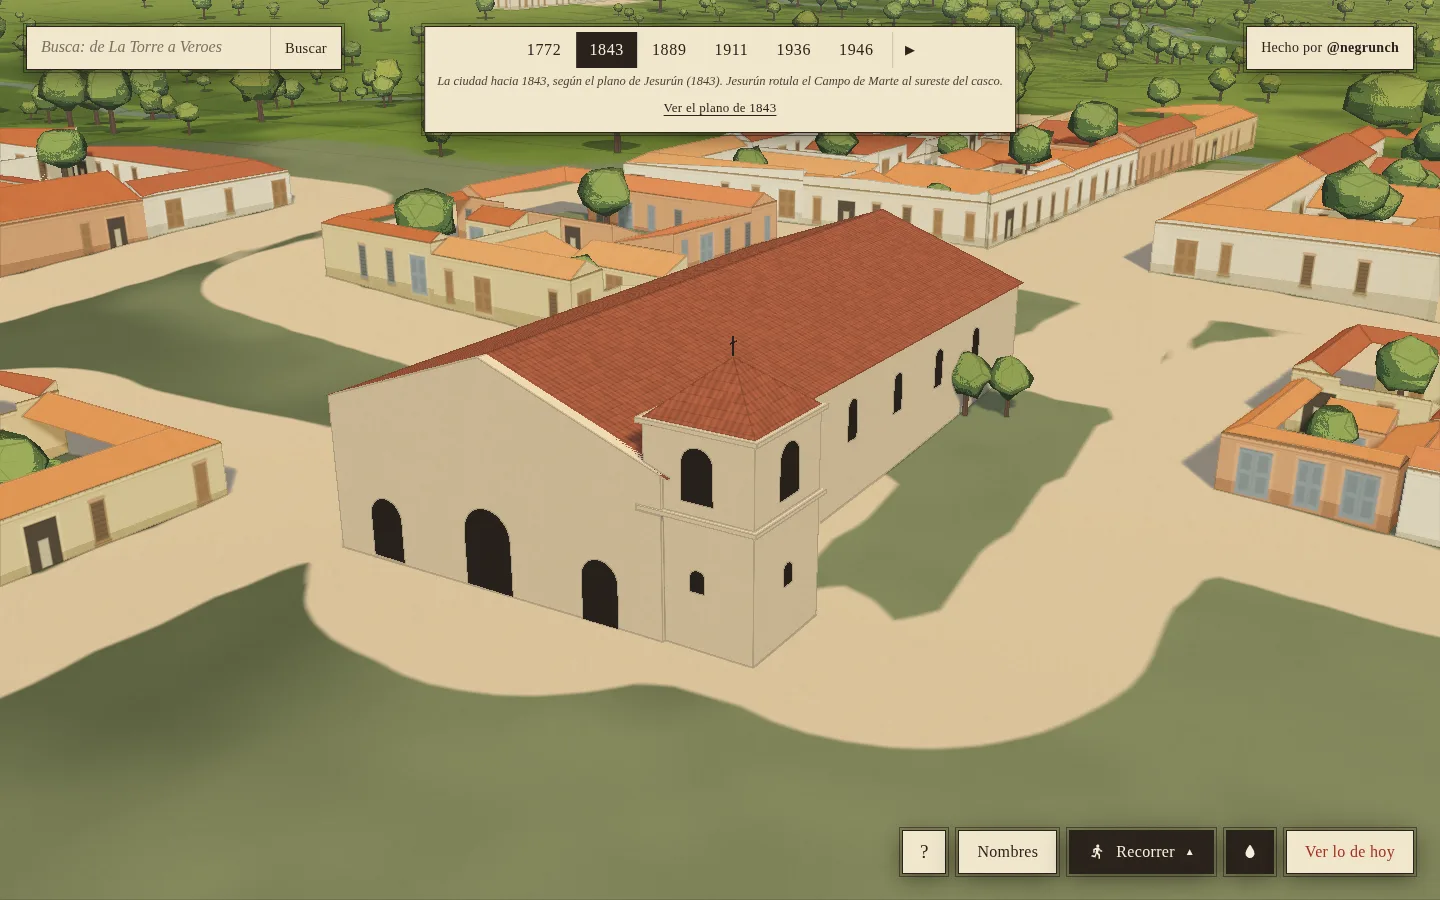
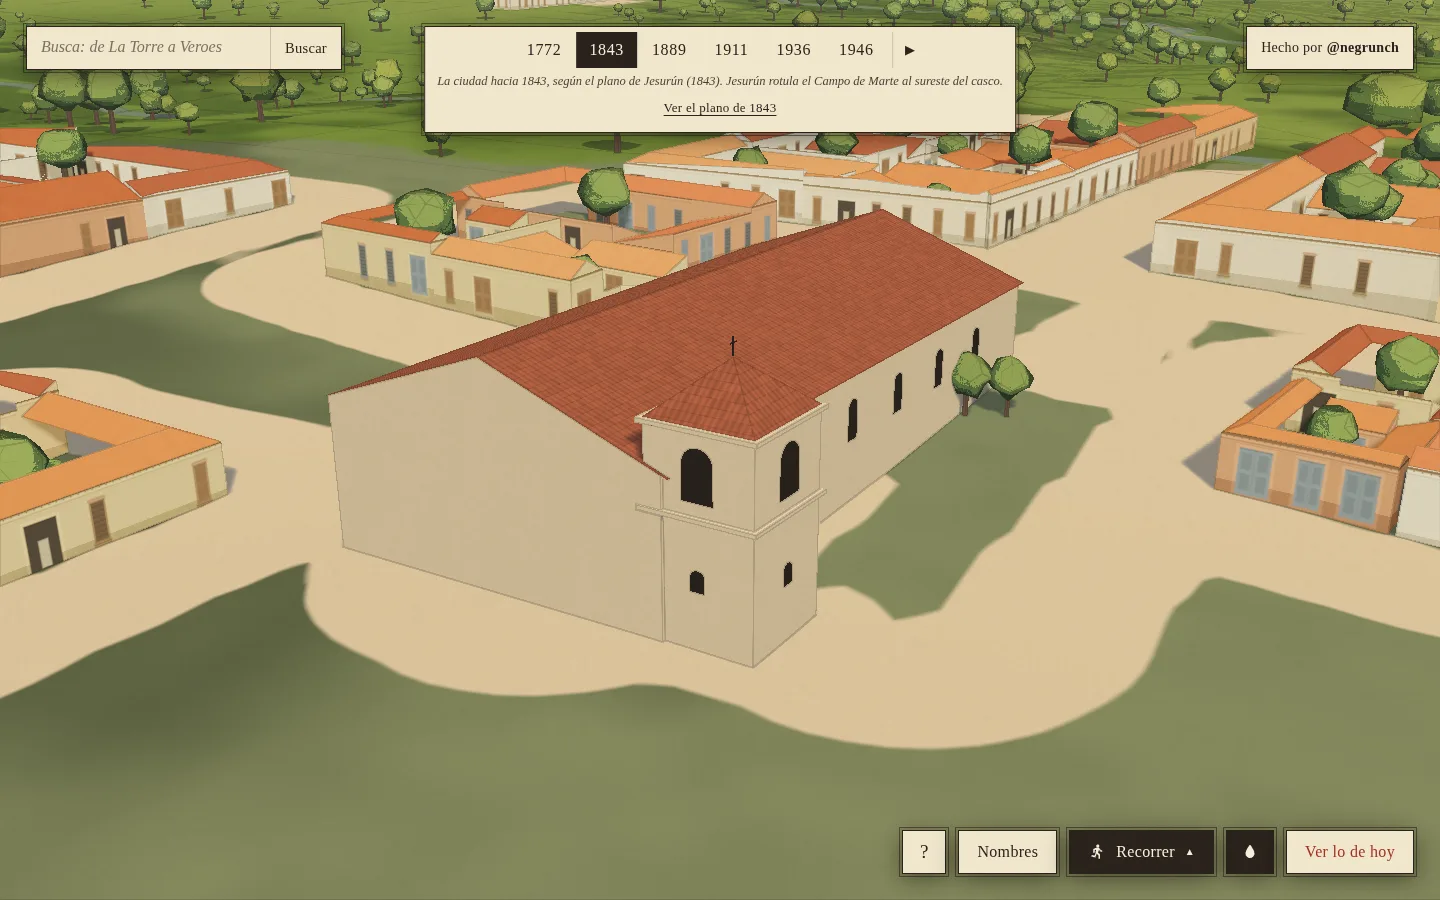
fix: La Candelaria va sin fachada en 1843 y la ficha dice lo que el dibujo interpreta
Corrige la revisión de #314:

- En 1843 se dibujaba la fachada lisa de tres puertas de 1772, pero esa
  fachada cayó en 1812 y la nueva no se empezó hasta 1860. La etapa de 1843
  es ahora una pieza aparte, con el muro de cierre de la nave y sin frente
  ni puertas (fachada «ninguna» de la iglesia paramétrica). El texto de la
  ficha de 1843 lo dice.
- El texto de la ficha de 1911 dice que el templo se muestra terminado por
  interpretación: no se sabe cuándo terminó la obra empezada en 1901.
- El test de las tres puertas no probaba nada en el templo de naves: ahora
  comprueba qué fachada y cuántas puertas tiene cada etapa.

198 triángulos más (2.555); sigue dentro de los topes. Capturas de 1843 nuevas.

Refs #243

Claude-Session: https://claude.ai/code/session_016wLvLzPGE3irYQgPfs9SqY

diff --git a/tests/unit/candelaria.test.js b/tests/unit/candelaria.test.js
@@ -74,6 +74,15 @@ describe('iglesia paramétrica: fachada lisa, tres puertas y fachada más alta q
     expect([...explicita.posiciones]).toEqual([...d.posiciones])
   })
 
+  test('sin frente (fachada «ninguna») no dibuja puertas ni hastial: menos triángulos que la lisa y la misma nave', () => {
+    const lisa = dibujar((p) => iglesia(p, { ...base, fachada: 'lisa' }))
+    const ninguna = dibujar((p) => iglesia(p, { ...base, fachada: 'ninguna' }))
+    expect(ninguna.sano).toBe(true)
+    expect(ninguna.triangulos).toBeLessThan(lisa.triangulos)
+    expect(ninguna.caja.min[0]).toBeGreaterThan(lisa.caja.min[0]) // nada delante del muro de la nave
+    expect(ninguna.caja.max[0]).toBeCloseTo(lisa.caja.max[0], 5)
+  })
+
   test('rechaza un número de puertas que no sea 1 o 3', () => {
     expect(() => dibujar((p) => iglesia(p, { ...base, puertas: 2 }))).toThrow(/puertas/)
   })
@@ -119,7 +128,9 @@ describe('La Candelaria (#243)', () => {
     const cabecera = coords.aMundo(...h.planta[0][1])
     expect(cabecera.x).toBeGreaterThan(origen.x + 40)
     expect(Math.abs(cabecera.z - origen.z)).toBeLessThan(20)
-    for (const parte of h.partes.filter((p) => p.tipo !== 'torre')) expect(parte.puertas ?? 3).toBe(3)
+    // las tres puertas van donde hay fuente: 1772 (Martí) y 1889 (puertas de 1880); el templo de naves trae tres siempre
+    const iglesias = h.partes.filter((p) => p.tipo === 'iglesia')
+    expect(iglesias.map((p) => [p.nace, p.fachada, p.puertas ?? 1])).toEqual([[1, 'lisa', 3], [2, 'ninguna', 1], [3, 'clasica', 3]])
   })
 
   test('la torre queda al sur de la fachada (lado de la Epístola), fuera del ancho de las naves', () => {
@@ -148,11 +159,11 @@ describe('La Candelaria (#243)', () => {
     expect(alto(4)).toBeGreaterThan(alto(3) + 2)
   })
 
-  test('cada etapa tiene su cuerpo: envolvente lisa (1772 y 1843), fachada alta de 1872 (1889) y naves levantadas (desde 1911)', () => {
+  test('cada etapa tiene su cuerpo: fachada lisa (1772), sin frente (1843: cayó en 1812), fachada alta de 1872 (1889) y naves levantadas (desde 1911)', () => {
     expect(h.partes.filter((p) => p.tipo !== 'torre').map((p) => [p.tipo, p.fachada ?? null, p.nace, p.muere])).toEqual([
-      ['iglesia', 'lisa', 1, 3], ['iglesia', 'clasica', 3, 4], ['temploDeNaves', null, 4, 0],
+      ['iglesia', 'lisa', 1, 2], ['iglesia', 'ninguna', 2, 3], ['iglesia', 'clasica', 3, 4], ['temploDeNaves', null, 4, 0],
     ])
-    const [, de1889, de1911] = h.partes.filter((p) => p.tipo !== 'torre')
+    const [, , de1889, de1911] = h.partes.filter((p) => p.tipo !== 'torre')
     expect(de1889.altoFachada).toBeGreaterThan(de1889.alto + de1889.altoTecho) // «levantando los techos para que… concuerden con la fachada»
     expect(de1911.altoCentral).toBeGreaterThan(de1911.altoLateral)
     // la nave sube en 1911: los techos se levantaron después del terremoto de 1900
@@ -203,5 +214,9 @@ describe('La Candelaria (#243)', () => {
     expect(f.textos[3][1]).toMatch(/1900/)
     expect(f.dudas).toMatch(/altura/i)
     expect(f.dudas).toMatch(/1843/)
+    // lo que el dibujo interpreta va dicho en el texto de su época, no solo en las dudas
+    expect(f.textos[1][1]).toMatch(/sin fachada/)
+    expect(f.textos[3][1]).toMatch(/interpretación/)
+    expect(f.textos[3][1]).toMatch(/no se sabe cuándo terminó/)
   })
 })

diff --git a/src/hitos/datos/candelaria.js b/src/hitos/datos/candelaria.js
@@ -32,9 +32,12 @@ export const candelaria = Object.freeze({
   id: 'candelaria', nombre: 'Iglesia de La Candelaria', ...marco, nace: 1, muere: 0,
   planta, suprime: recinto, sinArboles: recinto, solarCompleto: true,
   partes: [
-    // 1772 y 1843: tres naves bajo un tejado, fachada de ladrillo con tres puertas al oeste (Martí). De su
-    // adorno no se sabe nada, y en 1812 se cayó: va lisa.
-    { tipo: 'iglesia', ...NAVES, alto: ALTO, altoTecho: ALTO_TECHO, fachada: 'lisa', puertas: 3, nace: 1, muere: 3 },
+    // 1772: tres naves bajo un tejado, fachada de ladrillo con tres puertas al oeste (Martí). De su adorno no
+    // se sabe nada: va lisa.
+    { tipo: 'iglesia', ...NAVES, alto: ALTO, altoTecho: ALTO_TECHO, fachada: 'lisa', puertas: 3, nace: 1, muere: 2 },
+    // 1843: la fachada cayó en 1812 y la nueva no se empezó hasta 1860. Va el cuerpo con un muro de cierre,
+    // sin frente ni puertas: no hay fuente para dibujarle uno.
+    { tipo: 'iglesia', ...NAVES, alto: ALTO, altoTecho: ALTO_TECHO, fachada: 'ninguna', nace: 2, muere: 3 },
     torre(3, 1, 2), // «una torre ó campanario de tres cuerpos» (Martí, 1772)
     torre(2, 2, 4), // en 1812 «el cuerpo tercero de la torre» vino a tierra; se subió entre 1889 y 1900
     // 1889: la fachada que se levantó de 1860 a 1872, «una de las más altas de los templos de Caracas», sobre
@@ -48,7 +51,7 @@ export const candelaria = Object.freeze({
   verificar: [
     'Alturas sin fuente: ninguna está medida ni publicada; salen de la proporción con el ancho leído del plano. Landaeta solo dice que la fachada de 1872 es «una de las más altas de los templos de Caracas».',
     'Planta de 51 × 25 m con la torre de 7 m al sur de la fachada: lados del contorno del plano de 1936 (0,5 m por píxel), no mensura; el rótulo tapa el muro sur. Se usa en todas las épocas porque Landaeta dice que se reedificó «sobre el mismo plan»; el plano de 1772 solo pone el símbolo de iglesia y el de 1843, un bloque.',
-    'En 1843 no se sabe cuánto de la reedificación estaba hecho: el templo cayó en parte en 1812 y la fachada nueva no se empezó hasta 1860. Va el cuerpo entero con la fachada lisa y la torre de dos cuerpos.',
+    'En 1843 no se sabe cuánto de la reedificación estaba hecho: el templo cayó en parte en 1812 y la fachada nueva no se empezó hasta 1860. Va el cuerpo entero con un muro de cierre al oeste, sin fachada ni puertas, y la torre de dos cuerpos.',
     'La torre tiene dos cuerpos también en 1889: se subió «de 1889 a 1900», sin año. El remate (chapitel de teja) es una interpretación de «se techó de nuevo».',
     'Desde 1911 va terminada, con la nave central más alta: en noviembre de 1908 solo estaba casi listo el techo de la nave central y el templo seguía «en ruinas». No se halló la fecha en que acabó la obra ni una vista fechada del resultado.',
     'El adorno de las fachadas (pilastras, frontón) es el de la iglesia paramétrica: de la de Hurtado Manrique solo se saben las tres puertas y el balcón central de 1880, que no se dibuja.',

diff --git a/src/fichas-datos.js b/src/fichas-datos.js
@@ -370,9 +370,9 @@ export const FICHAS = Object.freeze({
   candelaria: {
     textos: [
       [1, 'El 17 de mayo de 1772, el obispo Mariano Martí visitó la iglesia, fundada en 1708 y parroquia independiente desde 1750. Describió tres naves, tres puertas hacia el oeste, una torre de tres cuerpos junto a la fachada, del lado de la Epístola, y un cementerio cercado al otro lado. La plaza se delimitó al comenzar el templo; a mediados del siglo XVIII tenía pilastras de ladrillo en sus cuatro costados.'],
-      [2, 'La leyenda del plano de 1843 nombra la iglesia de La Candelaria (J). El terremoto de 1812 había derribado parte del templo, su fachada y el tercer cuerpo de la torre; después de la guerra de Independencia se empezó a reedificar «sobre el mismo plan». La fachada nueva no se comenzó hasta 1860.'],
+      [2, 'La leyenda del plano de 1843 nombra la iglesia de La Candelaria (J). El terremoto de 1812 había derribado parte del templo, su fachada y el tercer cuerpo de la torre; después de la guerra de Independencia se empezó a reedificar «sobre el mismo plan». La fachada nueva no se comenzó hasta 1860: aquí va sin fachada, con un muro de cierre, y con la torre de dos cuerpos; no se sabe cuánto estaba reedificado ese año.'],
       [3, 'Templo VI y plaza D del plano de 1889. La fachada se levantó entre 1860 y 1872 bajo la dirección de Juan Hurtado Manrique: Landaeta Rosales la cuenta entre las más altas de Caracas. En 1880 se le pusieron las tres puertas y el balcón central. La plaza se llamó Carabobo desde 1877 y tuvo la estatua de José Gregorio Monagas desde 1881.'],
-      [4, 'El terremoto del 29 de octubre de 1900 dañó la iglesia. Desde 1901 se reconstruyó empezando por el presbiterio, con los techos más altos «para que tengan luz y concuerden con la fachada» (ingeniero Jesús Muñoz Tébar). Entre 1889 y 1900 se había subido y techado de nuevo el campanario. En noviembre de 1908 la obra seguía: estaba casi terminado el techo de la nave central.'],
+      [4, 'El terremoto del 29 de octubre de 1900 dañó la iglesia. Desde 1901 se reconstruyó empezando por el presbiterio, con los techos más altos «para que tengan luz y concuerden con la fachada» (ingeniero Jesús Muñoz Tébar). Entre 1889 y 1900 se había subido y techado de nuevo el campanario. En noviembre de 1908 la obra seguía: estaba casi terminado el techo de la nave central. Aquí se muestra terminada desde 1911: es una interpretación, porque no se sabe cuándo terminó la obra.'],
     ],
     dudas: 'Ninguna altura está medida: salen de la proporción con la planta, que es el contorno del plano de 1936. No se sabe cuánto de la reedificación estaba hecho en 1843 ni cuándo terminó la obra empezada en 1901; el cementerio y la sacristía no se dibujan.',
   },

diff --git a/src/hitos/iglesias.js b/src/hitos/iglesias.js
@@ -172,6 +172,8 @@ const FACHADAS = Object.freeze({
     vano(p, { ancho: ancho * 0.14, alto: alto * 0.52 })
     if (puertas === 3) puertasLaterales(p, { ancho, alto: alto * 0.4 })
   },
+  /** Sin frente: queda el muro de cierre de la nave, sin puertas ni adorno (una fachada caída o por hacer). */
+  ninguna() {},
   /** Hastial apuntado con rosetón, puerta ojival y pináculos: el neogótico de Guzmán Blanco. */
   neogotica(p, { ancho, alto, altoTecho, color }) {
     caja(p.en(0, 0, -0.4), { ancho, alto, fondo: 0.8, color })
@@ -189,7 +191,7 @@ const FACHADAS = Object.freeze({
 
 /**
  * Iglesia paramétrica: nave de `largo` × `ancho` con tejado a dos aguas y ventanas altas, `fachada`
- * ('clasica' | 'lisa' | 'neogotica' | 'barroca'), `torres` { n: 0 | 1 | 2, lado, cuerpos, remate, centrada? }
+ * ('clasica' | 'lisa' | 'ninguna' | 'neogotica' | 'barroca'), `torres` { n: 0 | 1 | 2, lado, cuerpos, remate, centrada? }
  * a los lados de la fachada (o una sola al centro), `cupula` { a, radio, … } sobre el crucero y, si se pide,
  * `dosFachadas` (otra igual en la cabecera: Santa Teresa). `puertas`: 1 o 3 (en la clásica y en la lisa);
  * `altoFachada`: cuando la fachada sube más que los muros de la nave (por omisión, lo mismo).

diff --git a/docs/candelaria-integracion.md b/docs/candelaria-integracion.md
@@ -33,7 +33,7 @@ Certeza: **alta** = el documento lo dice o lo dibuja; **media** = se infiere de 
 | 1812 | «Parte de la Iglesia, la fachada y el cuerpo tercero de la torre vinieron á tierra»; capilla provisional en el ángulo sureste de la plaza | Landaeta, pp. 10 y 17 | alta | — |
 | después de la guerra (sin año) | «Se principió á reedificar de nuevo esta Iglesia, pero siempre sobre el mismo plan de cuando se construyó»; la capilla de la plaza se demuele «al ponerse la Iglesia en estado de servicio» | Landaeta, pp. 10 y 17 | media: sin fechas | — |
 | 1825 | El cementerio anexo deja de usarse (se abre el del Este) | Landaeta, pp. 10–11 | alta | — |
-| 1843 | Letra J «La Candelaria»; un bloque en el lugar del templo | Plano de Jesurún de 1843 (`specs/auditoria-1843/leyenda.json`), calce 12,4 m RMS | alta para la presencia | el mismo cuerpo, fachada lisa, **torre de dos cuerpos** |
+| 1843 | Letra J «La Candelaria»; un bloque en el lugar del templo | Plano de Jesurún de 1843 (`specs/auditoria-1843/leyenda.json`), calce 12,4 m RMS | alta para la presencia | el mismo cuerpo, **sin fachada** (muro de cierre, sin puertas) y **torre de dos cuerpos** |
 | 1860–1872 | El cura Torres «levantó la fachada del templo hasta una altura considerable» (1860–1867); se termina de 1868 a 1872, con Vicente Flores y otros maestros, «bajo la dirección de Don Juan Hurtado Manrique» | Landaeta, p. 11 | alta | — |
 | 1880–1881 | Arco y pilares del coro central; «las tres puertas y el balcón central»; los tres coros; «la fachada del Sur» | Landaeta, p. 12 | alta | — |
 | 1889 | Templo VI y plaza D | Plano de Mestre de 1889 | alta | el cuerpo de antes con la **fachada alta de 1872** (clásica, tres puertas) y la torre de dos cuerpos |
@@ -49,11 +49,14 @@ Certeza: **alta** = el documento lo dice o lo dibuja; **media** = se infiere de 
   templo que mira al oeste), pegada a la fachada. El plano de 1772 solo trae el símbolo y el de 1843 un bloque
   más corto (unos 30 m): ninguno de los dos da la planta.
 - **El estado en 1843 no se conoce.** Entre el terremoto y 1860 no hay fechas: ni cuándo volvió al servicio ni
-  cuánto se había reedificado. Va el cuerpo entero con la torre sin su tercer cuerpo y la fachada lisa.
+  cuánto se había reedificado. Va el cuerpo entero con la torre sin su tercer cuerpo y **sin fachada**: un muro de
+  cierre sin puertas, porque la de 1772 había caído y la nueva no se empezó hasta 1860. La ficha lo dice en el
+  texto de 1843.
 - **La torre en 1889**: se subió «de 1889 a 1900». Con el plano de 1889 va todavía de dos cuerpos; pudo estar ya
   en obra.
 - **1911**: Landaeta deja la obra a medias en noviembre de 1908. No se halló cuándo terminó. Desde 1911 va
-  terminada porque el plano de Razetti dibuja el bloque completo; el plano no distingue un templo sin techo.
+  terminada porque el plano de Razetti dibuja el bloque completo; el plano no distingue un templo sin techo. La
+  ficha lo dice en el texto de 1911.
 - **«Tres naves»** no dice si la central era más alta. Antes de 1901 van bajo un solo tejado: la reconstrucción
   levanta los techos «para que tengan luz», de donde se infiere que antes no la tenían por arriba.
 - El terremoto de Cúa (12-4-1878) tumbó la imagen de la fachada (p. 15): la imagen no se dibuja en ninguna etapa.
@@ -115,7 +118,7 @@ todas las épocas; cambian sus casas, techos, árboles y los conteos. `npm run d
 - **Todas las alturas**: muros de 10 m, nave central de 15 m desde 1911, fachada de 15 m en 1889, cuerpos de la
   torre de 8, 5 y 4,5 m. Ninguna está medida ni publicada.
 - El remate de la torre (chapitel de teja), sus vanos y los de las naves.
-- El adorno de las fachadas; la fachada lisa de 1772 y de 1843 es la manera de no inventar uno.
+- El adorno de las fachadas; la fachada lisa de 1772 es la manera de no inventar uno, y en 1843 no va ninguna.
 - El ancho de la nave central desde 1911 (44 % del total) y que la cubierta siga siendo de teja.
 - Que la torre tuviera dos cuerpos de 1843 a 1889 sin cambios y tres desde 1911.
 
@@ -123,13 +126,14 @@ todas las épocas; cambian sus casas, techos, árboles y los conteos. `npm run d
 
 - `src/hitos/datos/candelaria.js`: la definición, con su fuente y su lista `verificar`.
 - `src/hitos/iglesias.js`: la iglesia paramétrica admite fachada `lisa`, `puertas: 3` y `altoFachada` (una fachada
-  más alta que la nave). Sin esos parámetros sale igual que antes (test).
+  más alta que la nave) y fachada `ninguna` (el muro de cierre, sin frente). Sin esos parámetros sale igual que
+  antes (test).
 - `src/hitos/templo-naves.js`: detrás de una fachada de pantalla los tejados arrancan 1,2 m después del muro; el
   alero la atravesaba. Santa Rosalía (cubierta plana) y San José (sin pantalla) no cambian: mismos triángulos.
 
 ## Rendimiento
 
-2.357 triángulos más en las seis fases: 643.976 antes de 1946 y 1.123.349 en total, **dentro de los topes** de los
+2.555 triángulos más en las seis fases (2.357 antes de partir la etapa de 1843): 644.174 antes de 1946 y 1.123.547 en total, **dentro de los topes** de los
 tests (645.000 y 1.125.000), que no se tocan. Build: entrada 304,7 kB y workers 173,5 kB contra 303,4 y 172,4 de
 `main`; el tope de workers (174) tampoco se toca. La medición de carga y de cuadro, en
 [`mediciones/candelaria-243`](mediciones/candelaria-243/README.md).

diff --git a/docs/mediciones/candelaria-243/README.md b/docs/mediciones/candelaria-243/README.md
@@ -34,3 +34,7 @@ lo que no está en pie.
 Los topes de carga, tarea larga, bytes, memoria y triángulos del presupuesto ya no pasan en `main` con los datos
 completos y siguen sin pasar en la rama: **no se tocaron**. Tampoco los topes unitarios de triángulos de los hitos
 (643.976 de 645.000 antes de 1946; 1.123.349 de 1.125.000 en total) ni el de workers del build (173,5 de 174 kB).
+
+Después de esta medición, la etapa de 1843 pasó a ser una pieza aparte (sin fachada): el templo suma 2.555
+triángulos en vez de 2.357 (644.174 antes de 1946 y 1.123.547 en total, todavía dentro de los topes). **No se
+volvió a medir**; son 198 triángulos más en la misma malla.
